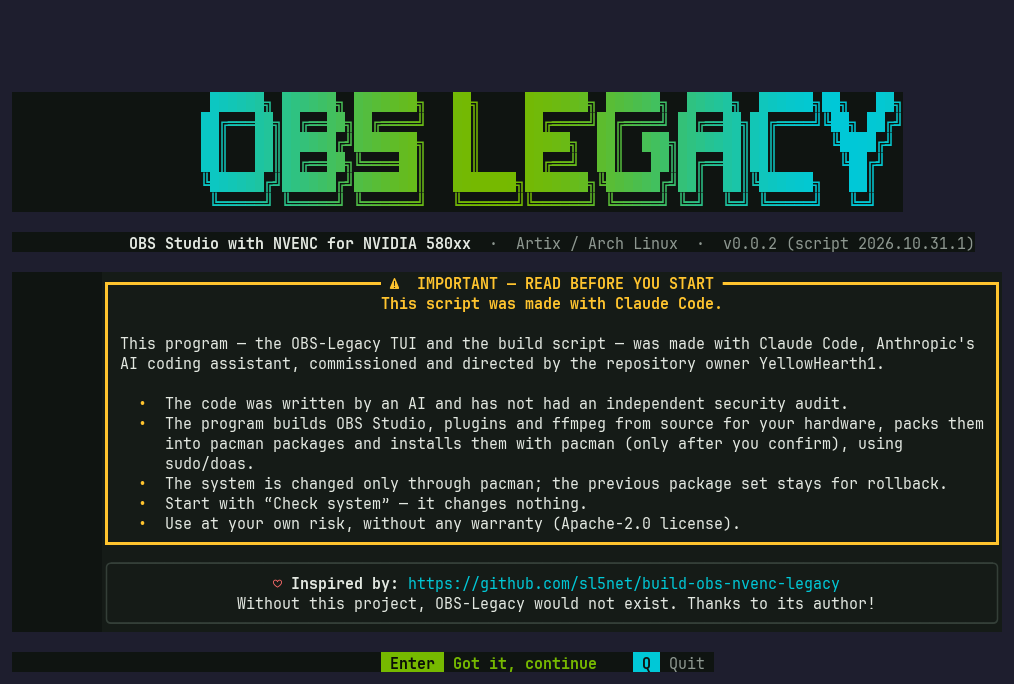
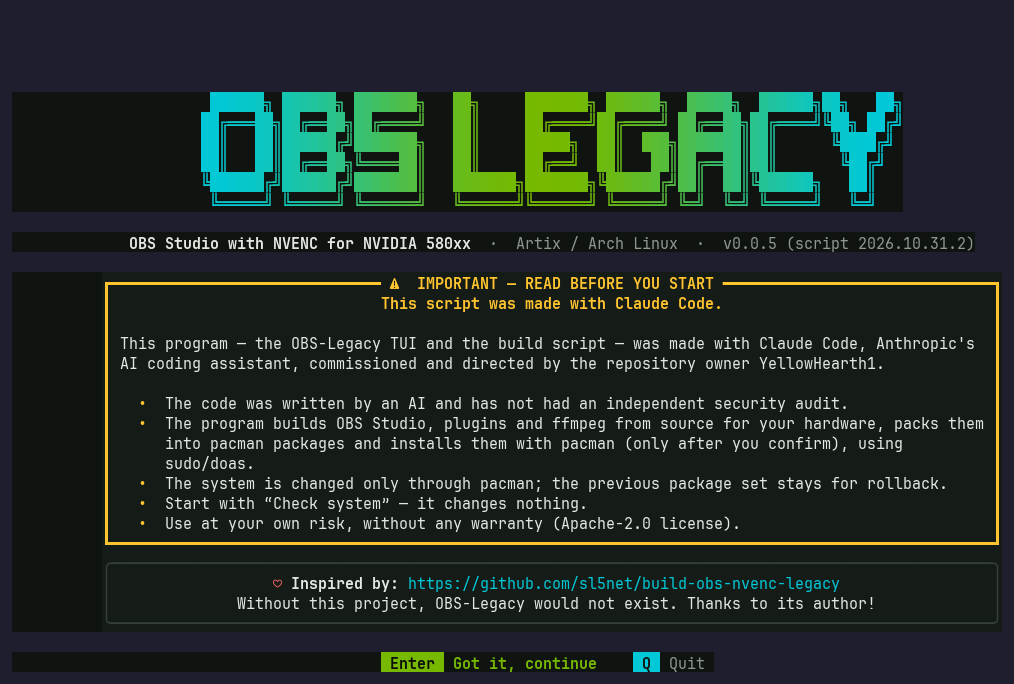
Версія 0.0.5: надійність за підсумками аудиту
«Versions» / «Версії» в README EN/UK, приклад pacman -U у README і TESTING,
скріншоти обома мовами перезнято з v0.0.5 у шапці (було v0.0.2).

Changed region(s): [[0.5503, 0.1228, 0.7949, 0.307], [0.214, 0.1228, 0.428, 0.307]]

diff --git a/README.uk.md b/README.uk.md
@@ -173,7 +173,7 @@ wget -qO- https://github.com/YellowHearth1/OBS-Legacy/releases/latest/download/i
 ([`packaging/PKGBUILD`](packaging/PKGBUILD)). Rust не потрібен: завантаж пакет і постав його pacman-ом.
 
 ```bash
-sudo pacman -U obs-legacy-0.0.4-1-x86_64.pkg.tar.zst
+sudo pacman -U obs-legacy-0.0.5-1-x86_64.pkg.tar.zst
 ```
 
 Програма ляже в `/usr/bin/obs-legacy`, а в меню програм з'явиться ярлик **OBS-Legacy**. Щоб дізнаватися про
@@ -514,8 +514,10 @@ curl, звіт), нічого не змінюючи. `FAKE_FAIL=1` імітує 
 
 ## Версії
 
-Поточна версія — **0.0.4**: встановлення однією командою (`curl … | bash`, готова програма з релізу, без
-збирання), і «Додатково → Оновити OBS-Legacy» оновлює й таку програму. **0.0.3** — інтерфейс не лише
+Поточна версія — **0.0.5**: надійність за підсумками аудиту коду — збирання більше не зависає, коли посеред
+завантаження зникає інтернет чи зникає репозиторій плагіна, і виправлено рідкісне аварійне закриття. **0.0.4** —
+встановлення однією командою (`curl … | bash`, готова програма з релізу, без збирання), і «Додатково → Оновити
+OBS-Legacy» оновлює й таку програму. **0.0.3** — інтерфейс не лише
 українською, а й англійською, і готовий пакет pacman самої програми в кожному релізі. **0.0.2** — перший
 публічний випуск: пакети pacman (`obs-studio-legacy-580xx` і
 решта), збирання під твоє залізо, ffmpeg з NVENC, сповіщення про оновлення, «Оновити» і «Перезібрати».

diff --git a/README.md b/README.md
@@ -176,7 +176,7 @@ with `obs-legacy-<version>-1-x86_64.pkg.tar.zst`, built from the release sources
 ([`packaging/PKGBUILD`](packaging/PKGBUILD)). No Rust needed: download it and install it with pacman.
 
 ```bash
-sudo pacman -U obs-legacy-0.0.4-1-x86_64.pkg.tar.zst
+sudo pacman -U obs-legacy-0.0.5-1-x86_64.pkg.tar.zst
 ```
 
 The program lands in `/usr/bin/obs-legacy` with an **OBS-Legacy** entry in the application menu. Turn on
@@ -523,8 +523,10 @@ plan — [`docs/TESTING.md`](docs/TESTING.md).
 
 ## Versions
 
-The current version is **0.0.4**: install with one command (`curl … | bash`, the ready-made program from the
-release, no build), and **More → Update OBS-Legacy** updates such an install too. **0.0.3** brought the
+The current version is **0.0.5**: reliability fixes from a code audit — a build no longer hangs when the
+internet drops mid-download or a plugin repository disappears, plus a fix for a rare crash. **0.0.4** brought
+installing with one command (`curl … | bash`, the ready-made program from the release, no build), and
+**More → Update OBS-Legacy** updates such an install too. **0.0.3** brought the
 interface in English as well as Ukrainian and a ready pacman package of the program in every release.
 **0.0.2** was the first public release: pacman packages
 (`obs-studio-legacy-580xx` and the rest), builds tuned to your hardware, ffmpeg with NVENC, update

diff --git a/docs/TESTING.md b/docs/TESTING.md
@@ -63,7 +63,7 @@ git clone https://github.com/YellowHearth1/OBS-Legacy.git && cd OBS-Legacy
 Спершу `./install.sh --uninstall`, якщо програма вже стоїть з вихідних кодів. Пакет — з релізу на GitHub:
 
 ```bash
-sudo pacman -U obs-legacy-0.0.4-1-x86_64.pkg.tar.zst
+sudo pacman -U obs-legacy-0.0.5-1-x86_64.pkg.tar.zst
 ```
 
 - [ ] `pacman -Qi obs-legacy` — версія релізу; `command -v obs-legacy` → `/usr/bin/obs-legacy`.
